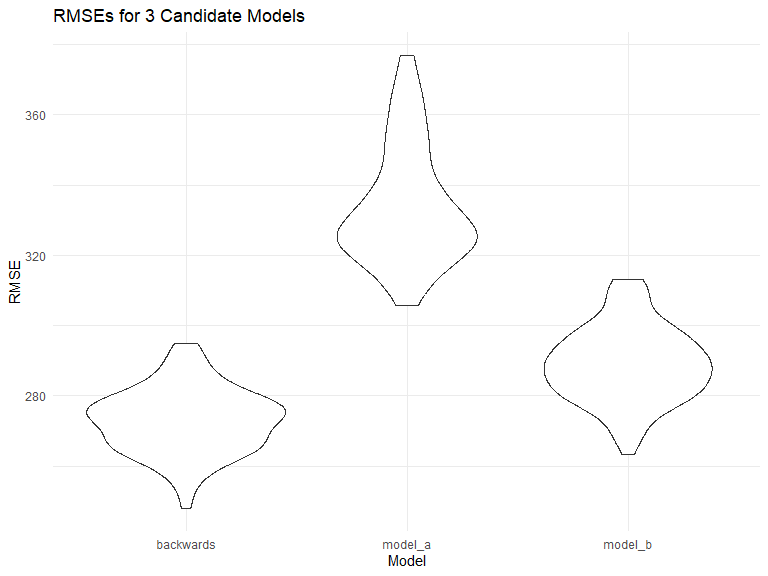
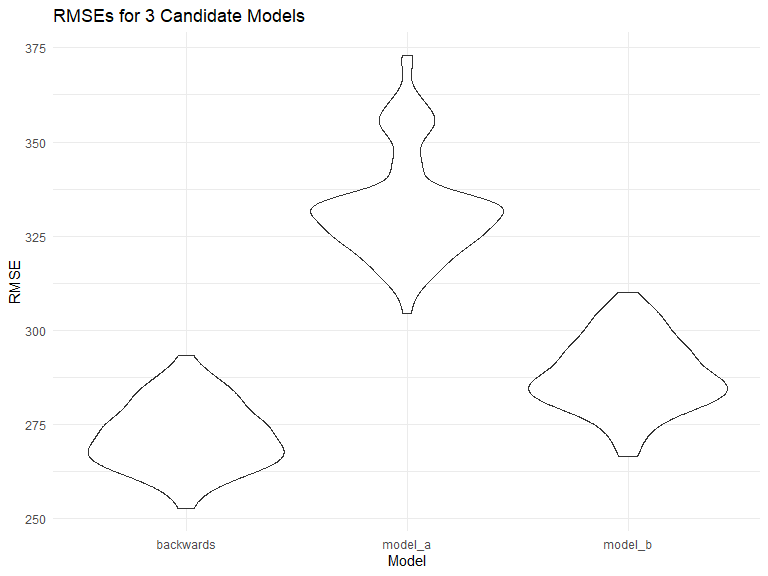
Add Problem 1 solutions

diff --git a/p8105_hw6_sr3861.md b/p8105_hw6_sr3861.md
@@ -5,6 +5,12 @@ Shritama Ray
 
 ### Problem 1: Central Park Weather
 
+To obtain a distribution for $\hat{r}^2$, we’ll follow basically the
+same procedure we used for regression coefficients: draw bootstrap
+samples; the a model to each; extract the value I’m concerned with; and
+summarize. Here, we’ll use `modelr::bootstrap` to draw the samples and
+`broom::glance` to produce `r.squared` values.
+
 ``` r
 weather_df = 
   rnoaa::meteo_pull_monitors(
@@ -28,6 +34,57 @@ weather_df =
     ## date created (size, mb): 2022-11-30 20:11:01 (8.443)
 
     ## file min/max dates: 1869-01-01 / 2022-11-30
+
+``` r
+weather_df %>% 
+  modelr::bootstrap(n = 1000) %>% 
+  mutate(
+    models = map(strap, ~lm(tmax ~ tmin, data = .x) ),
+    results = map(models, broom::glance)) %>% 
+  select(-strap, -models) %>% 
+  unnest(results) %>% 
+  ggplot(aes(x = r.squared)) + geom_density()
+```
+
+<img src="p8105_hw6_sr3861_files/figure-gfm/import data-1.png" width="90%" />
+
+In this example, the $\hat{r}^2$ value is high, and the upper bound at 1
+may be a cause for the generally skewed shape of the distribution. If we
+wanted to construct a confidence interval for $R^2$, we could take the
+2.5% and 97.5% quantiles of the estimates across bootstrap samples.
+However, because the shape isn’t symmetric, using the mean +/- 1.96
+times the standard error probably wouldn’t work well.
+
+We can produce a distribution for $\log(\beta_0 * \beta1)$ using a
+similar approach, with a bit more wrangling before we make our plot.
+
+``` r
+weather_df %>% 
+  modelr::bootstrap(n = 1000) %>% 
+  mutate(
+    models = map(strap, ~lm(tmax ~ tmin, data = .x) ),
+    results = map(models, broom::tidy)) %>% 
+  select(-strap, -models) %>% 
+  unnest(results) %>% 
+  select(id = `.id`, term, estimate) %>% 
+  pivot_wider(
+    names_from = term, 
+    values_from = estimate) %>% 
+  rename(beta0 = `(Intercept)`, beta1 = tmin) %>% 
+  mutate(log_b0b1 = log(beta0 * beta1)) %>% 
+  ggplot(aes(x = log_b0b1)) + geom_density()
+```
+
+<img src="p8105_hw6_sr3861_files/figure-gfm/unnamed-chunk-1-1.png" width="90%" />
+
+As with $r^2$, this distribution is somewhat skewed and has some
+outliers.
+
+The point of this is not to say you should always use the bootstrap –
+it’s possible to establish “large sample” distributions for strange
+parameters / values / summaries in a lot of cases, and those are great
+to have. But it is helpful to know that there’s a way to do inference
+even in tough cases.
 
 ### Problem 2: Washington Post Homocide Data
 
@@ -374,3 +431,9 @@ cv_df %>%
 ```
 
 <img src="p8105_hw6_sr3861_files/figure-gfm/model comparison-1.png" width="90%" />
+
+From the plots, we can see that the backward selection model has the
+lowest RMSE and is therefore the most powerful predictor of baby
+birthweight. Model B with the interaction terms has a slightly higher
+RMSE than the backwards selection model, and Model A with just 2
+predictors has the highest RMSE.
